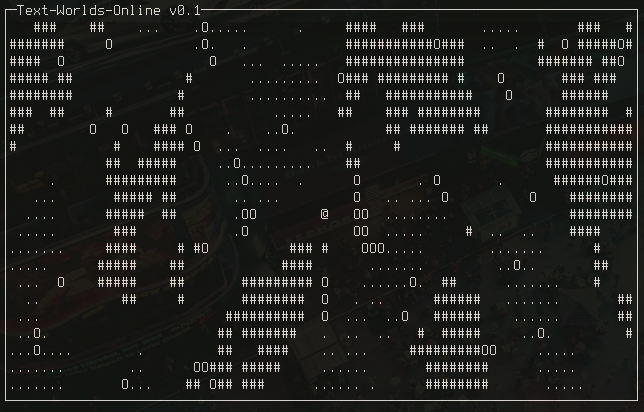
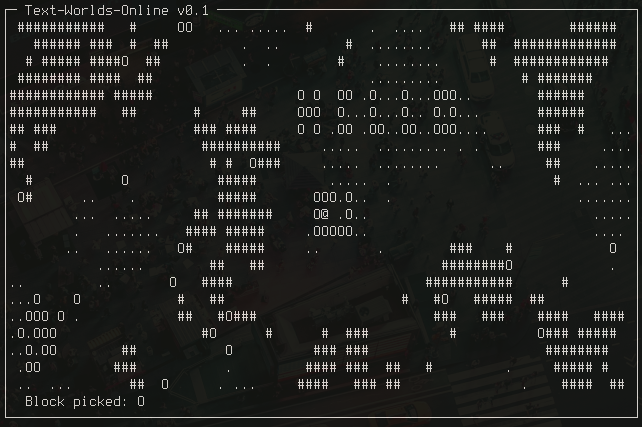
Players can now move barricades

diff --git a/server/src/server.py b/server/src/server.py
@@ -14,12 +14,15 @@ class Server:
         self.max_players = args.players
         # self.map_json = json.loads(open(args.map, 'r').read())
         # self.map = self.map_json["data"]
-        self.map = Generator(500, 500, 0.05).getMap()
 
+        gen = Generator(500, 500, 0.05)
+        self.map = gen.getMap()
+        self.barricades = gen.getBarricades()
 
         self.chars = {
             "solids": ["#", "O"],
             "wall": "#",
+            "barricade": "O",
             "empty": " ",
             "player": "@"
         }
@@ -64,7 +67,8 @@ class Server:
             data = ""
             if task['a'] == 'm': # If action is m: move
                 self.movePlayer(player, task['p']) # Move player to direction set in task payload p, 0,1,2,3
-
+            elif task['a'] == 'p':
+                self.pickBlock(player)
             # except:
             #     pass
 
@@ -84,9 +88,41 @@ class Server:
         if not self.getMapTitle(next_position[0], next_position[1]) in self.chars["solids"]:
             player.position = next_position
 
+        player.facing = direction
+
+    def pickBlock(self, player):
+        if player.facing == 0:
+            title = (player.position[0] - 1, player.position[1])
+        elif player.facing == 1:
+            title = (player.position[0], player.position[1] + 1)
+        elif player.facing == 2:
+            title = (player.position[0] + 1, player.position[1])
+        elif player.facing == 3:
+            title = (player.position[0], player.position[1] - 1)
+        
+        if player.picked_block:
+            if not self.getMapTitle(title[0], title[1]) in self.chars["solids"]:
+                player.picked_block.is_picked = False
+                player.picked_block.position = (title[0], title[1])
+
+                # Update barricades list key with the new correct one based on new position
+                self.barricades[f"{title[0]}{title[1]}"] = self.barricades.pop(player.picked_block.barricade_id)
+                self.barricades[f"{title[0]}{title[1]}"].barricade_id = f"{title[0]}{title[1]}"
+
+                player.picked_block = None
+
+        elif self.getMapTitle(title[0], title[1]) == self.chars["barricade"]:
+            b = self.barricades[f"{title[0]}{title[1]}"]
+            b.is_picked = True
+            player.picked_block = b
+
     def getMapTitle(self, y, x):
-        if 0 <= y <= (len(self.map) - 1) and 0 <= x <= (len(self.map[0]) - 1): 
-            return self.map[y][x]
+        if 0 <= y <= (len(self.map) - 1) and 0 <= x <= (len(self.map[0]) - 1):
+            if f"{y}{x}" in self.barricades and \
+               not self.barricades[f"{y}{x}"].is_picked:
+                return self.chars["barricade"]
+            else:
+                return self.map[y][x]
         else:
             return None
 
@@ -114,28 +150,45 @@ class Server:
 
         start_title = (start_y, start_x)
 
-        # Render map lines
-        for line in range(start_title[0], start_title[0] + self.windowSize[0]):
-            window.append(list(self.map[line][start_title[1]:(start_title[1] + self.windowSize[1])]))
+        # Render map rows
+        for row in range(start_title[0], start_title[0] + self.windowSize[0]):
+            window.append(list(self.map[row][start_title[1]:(start_title[1] + self.windowSize[1])]))
 
-        # Render players
-        for player in self.players:
-            player_object = self.players[player]
-            if start_title[0] <= player_object.position[0] <= (start_title[0] + self.windowSize[0]) and start_title[1] <= player_object.position[1] <= (start_title[1] + self.windowSize[1]):
-                window[player_object.position[0] - start_title[0]][player_object.position[1] - start_title[1]] = self.chars['player']
+        try: # These may be changed during iteration by other threads, thats why try
+            # Render barricades
+            for barricade in self.barricades:
+                barricade_object = self.barricades[barricade]
+                # Check if barricade is in visible window
+                if start_title[0] <= barricade_object.position[0] < (start_title[0] + self.windowSize[0]) and \
+                   start_title[1] <= barricade_object.position[1] < (start_title[1] + self.windowSize[1]) and \
+                   not barricade_object.is_picked:
+                    window[barricade_object.position[0] - start_title[0]][barricade_object.position[1] - start_title[1]] = self.chars['barricade']
 
+
+            # Render players
+            for player in self.players:
+                player_object = self.players[player]
+                # Check if player is in visible window
+                if start_title[0] <= player_object.position[0] < (start_title[0] + self.windowSize[0]) and \
+                   start_title[1] <= player_object.position[1] < (start_title[1] + self.windowSize[1]):
+                    window[player_object.position[0] - start_title[0]][player_object.position[1] - start_title[1]] = self.chars['player']
+        except:
+            pass
+
+        # Get rid of that thing
         for line in range(0, len(window)): # Turn into a string
             window[line] = "".join(window[line])
 
         return window
 
     def updateClients(self):
-        try:
-            for player in self.players:
-                self.players[player].clientsocket.send(bytes(json.dumps(self.getWindow(self.players[player])) + ";", "utf-8"))
-
-        except:
-            pass
+        # try:
+        for player in self.players:
+            self.players[player].clientsocket.send(bytes(json.dumps(
+                {"w": self.getWindow(self.players[player]), "b": self.players[player].picked_block != None}
+            ) + ";", "utf-8"))
+        # except:
+        #     pass
 
     def start(self):
         threading.Thread(target = self.acceptClients, daemon = True).start()

diff --git a/client/src/game.py b/client/src/game.py
@@ -11,6 +11,8 @@ class Game:
         self.size = (0, 0) # Screen size (h, w)
         self.map = []
 
+        self.picked = False
+
         self.log = ""
 
 
@@ -41,8 +43,9 @@ class Game:
                 message += self.s.recv(1).decode('utf-8')
 
                 if message[-1] == ";":
-                    self.map = json.loads(message[:-1])
-
+                    parsed = json.loads(message[:-1])
+                    self.map = parsed["w"]
+                    self.picked = parsed["b"]
                     message = ""
             except:
                 message = ""
@@ -56,10 +59,7 @@ class Game:
     # Game mechanics & sending data
 
     def move(self, direction):
-        try:
-            self.s.send(bytes(json.dumps({'a': 'm', 'p': direction}) + ";", "utf-8")) # Action: Move, payload: direction
-        except:
-            pass
+        self.s.send(bytes(json.dumps({'a': 'm', 'p': direction}) + ";", "utf-8")) # Action: Move, payload: direction
 
     def shoot(self, direction):
         try:
@@ -67,11 +67,21 @@ class Game:
         except:
             pass
 
+    def pick(self):
+        try:
+            self.s.send(bytes(json.dumps({'a': 'p'}) + ";", "utf-8"))
+        except:
+            pass
+
 
     # Drawing & Curses
 
     def addTexts(self):
-        self.window.addstr(0, 2, f"Text-Worlds-Online v{self.version}")
+        self.window.addstr(0, 2, f" Text-Worlds-Online v{self.version} ")
+        if self.picked:
+            self.window.addstr(self.size[0] + 1, 2, f" Block picked: O ")
+        else:
+            self.window.addstr(self.size[0] + 1, 2, f" Block picked:   ")
 
     def draw(self):
         self.window.erase()
@@ -111,6 +121,9 @@ class Game:
                     self.shoot(2)
                 elif key == curses.KEY_LEFT:
                     self.shoot(3)
+
+                if key == 32: # Space
+                    self.pick()
 
 
             except KeyboardInterrupt:

diff --git a/server/MapGeneration/generator.py b/server/MapGeneration/generator.py
@@ -1,10 +1,12 @@
 import noise
+from src.barricade import Barricade
 
 class Generator:
     def __init__(self, width=int, height=int, scale=int):
         self.height = height
         self.width = width
         self.map = []
+        self.barricades = {}
         self.scale = scale
 
     def generateBase(self):
@@ -21,9 +23,7 @@ class Generator:
         for y in range(0, self.height):
             for x in range(0, self.width):
                 if noise.snoise2(x * self.scale * 3, y * self.scale * 3, persistence=.4,lacunarity=4, octaves=3) > 0.5 and not self.map[y][x] == "#":
-                    self.map[y] = list(self.map[y])
-                    self.map[y][x] = "O"
-                    self.map[y] = "".join(self.map[y])
+                    self.barricades[f"{y}{x}"] = Barricade(y, x, f"{y}{x}") # Assign id to each barricade based on initial coordinates
 
     def generateGrass(self):
         for y in range(0, self.height):
@@ -40,8 +40,11 @@ class Generator:
     def getMap(self):
         self.generateBase()
         self.generateGrass()
-        self.generateBarricades()
         return self.map
+
+    def getBarricades(self):
+        self.generateBarricades()
+        return self.barricades
 """
 g = Generator(80, 24, 0.05)
 g.generateBase()

diff --git a/server/src/player.py b/server/src/player.py
@@ -5,6 +5,8 @@ class Player:
         self.position = (400, 400) # y / x
         self.health = 5
         self.bullets = []
+        self.facing = 0
+        self.picked_block = None
 
     def disconnect(self):
         self.clientsocket.close()

diff --git a/server/src/barricade.py b/server/src/barricade.py
@@ -1,0 +1,5 @@
+class Barricade:
+    def __init__(self, y, x, barricade_id):
+        self.barricade_id = barricade_id
+        self.position = (y, x)
+        self.is_picked = False

diff --git a/README.md b/README.md
@@ -11,7 +11,7 @@ This project is currently WORK IN PROGRESS!
 
 Connect a client: `python3 client/main.py [server ip]:[port]`
 
-To host a server, check out [server documentation](server/README.md).
+To host a server, check out [server documentation](server/).
 
 ## Screenshots
 
